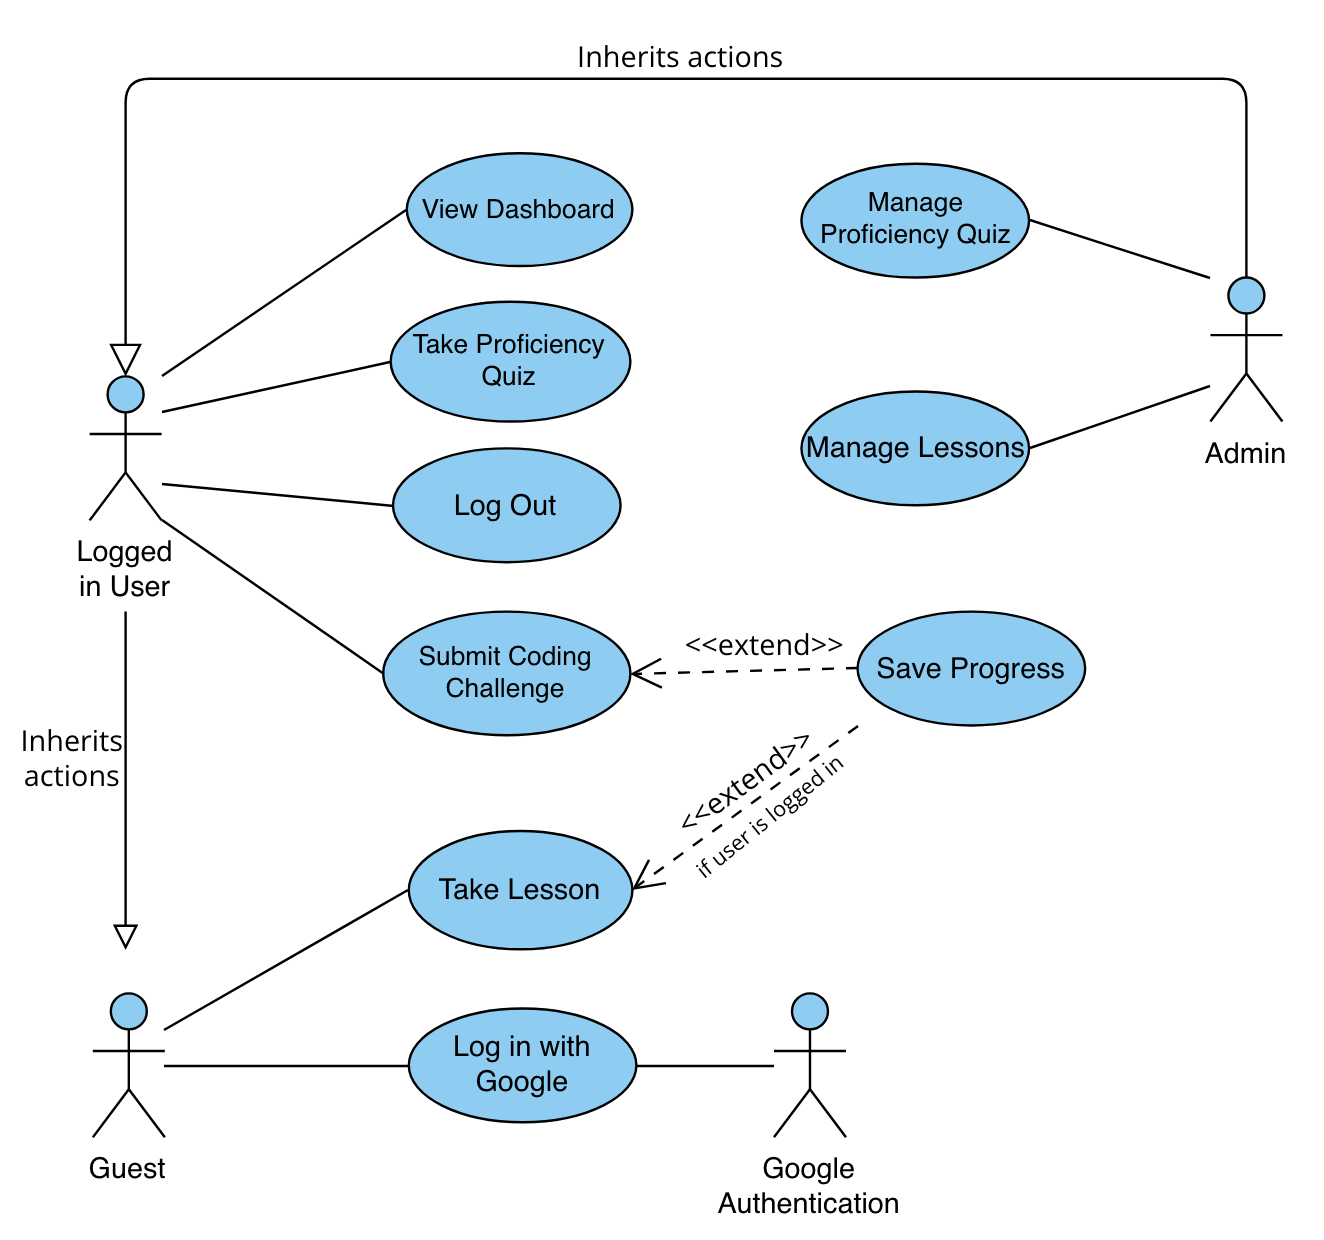
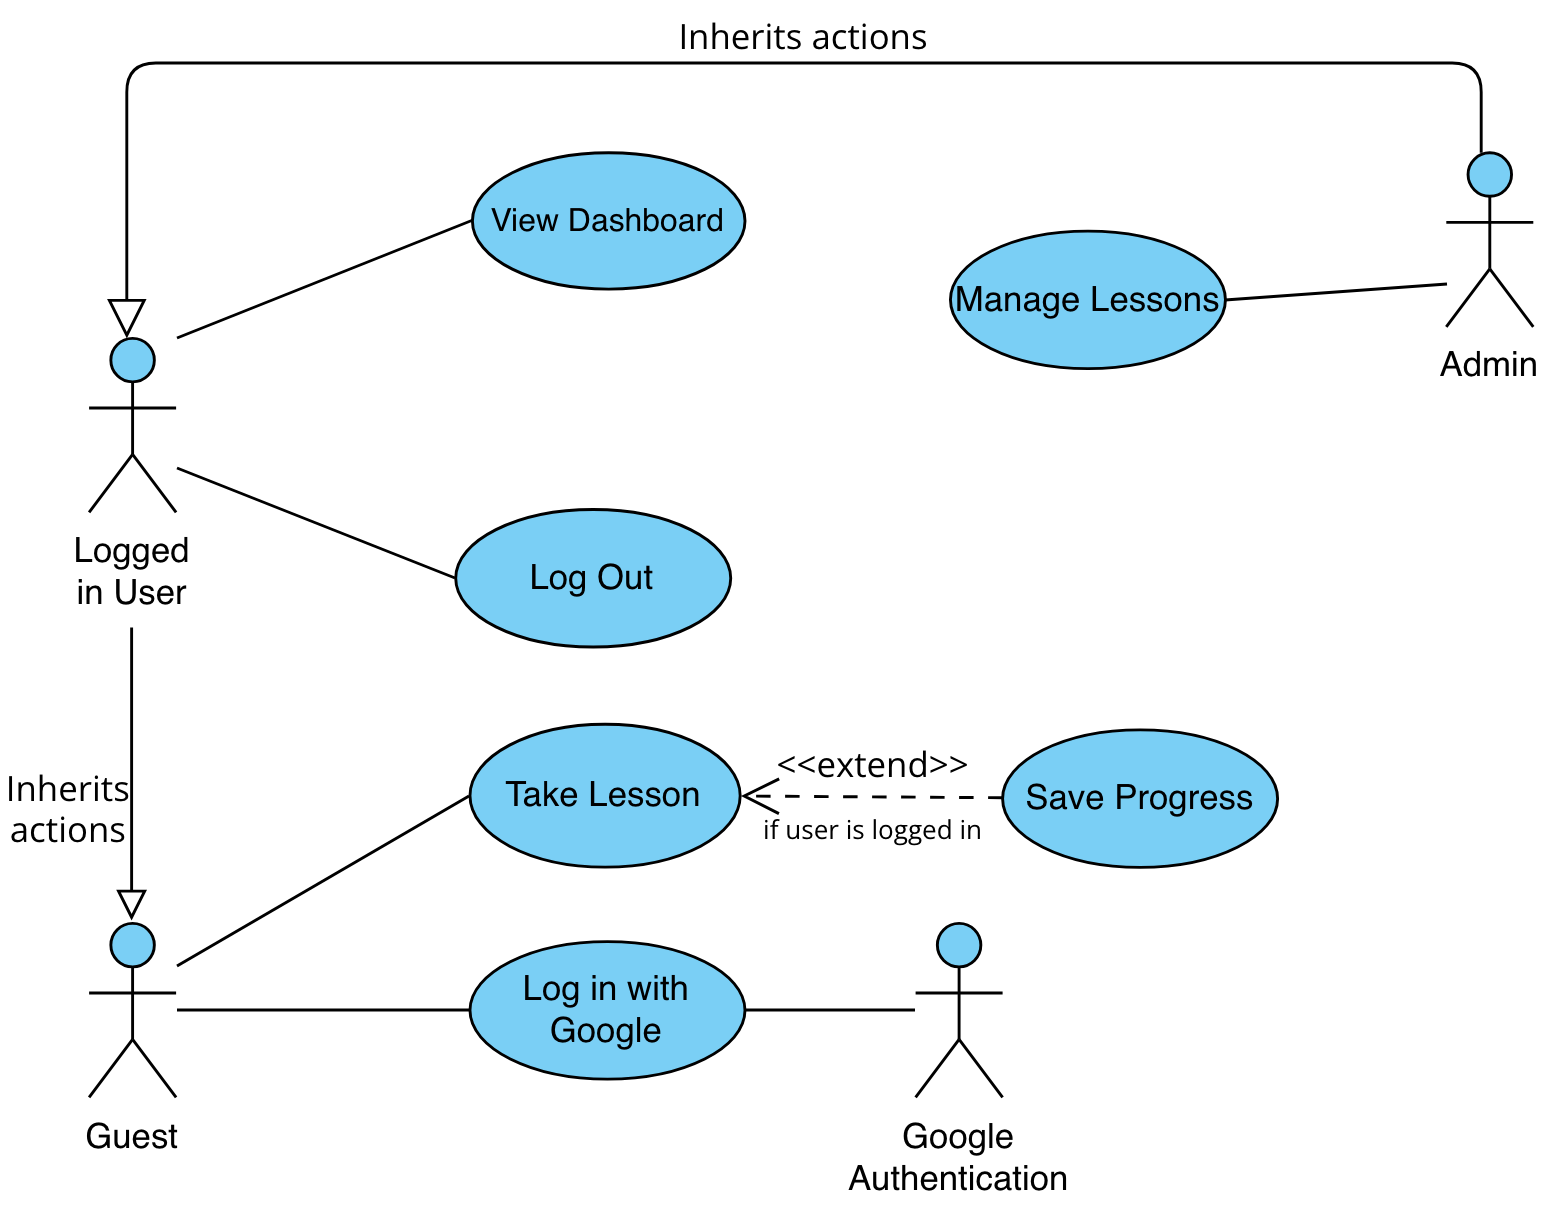
rough draft of software_requirements_specification.md and updated project scope on documentation

diff --git a/docs/proposal-template.md b/docs/proposal-template.md
@@ -5,64 +5,73 @@
 
 # Introduction
 
-Our Project is named "Syntax Sensei", it is a Python Programming language learning website. Users will follow lessons to learn Python starting basic and getting increasingly difficult. The lessons are created by ChatGPT but are verified to be accurate and helpful by us. The project will focus on gamefying the learning similar to Duolingo but for coding.
+Our Project is named "Syntax Sensei", it is a Python Programming language learning website. Users will follow lessons to learn Python starting basic and getting increasingly difficult. The lessons are created by AI but are verified to be accurate and helpful by our team. The project will focus on gamefying the learning similar to Duolingo but for coding.
 
 ### **Features:**
 # Overview
 
-This Software Requirements Specification (SRS) document defines the features, goals, and constraints for the "Syntax Sensei" project. Its purpose is to provide a clear, shared understanding for the development team of what the software will do and how it will perform.
+This document defines the features, goals, and constraints for the "Syntax Sensei" project. Its purpose is to provide a clear, shared understanding for the development team of what the software will do and how it will perform.
 
-# Functional Requirements
+# Software Requirments
+## Functional Requirements
 
-## 1. User Account Management
-1.  The system shall allow users to access and complete lessons without creating an account (guest mode).
-2.  The system shall not save any lesson progress for users in guest mode.
-3.  The system shall allow a user to register and log in using their existing Google account (Single Sign-On).
-4.  The system shall, upon first login, offer the user an optional proficiency quiz to place them in an appropriate "belt" section.
-5.  The system shall allow a logged-in user to log out.
-6.  The system shall save all lesson and belt progress only for users logged in with their Google account.
+### User Account Management
+| ID | Requirement |
+| :-------------: | :---------- |
+| FR1 | The system shall allow users to access and complete lessons without creating an account (guest mode). |
+| FR2 | The system shall not save any lesson progress for users in guest mode. |
+| FR3 | The system shall allow a user to register and log in using their existing Google account (Single Sign-On). |
+| FR4 | The system shall, upon successful login, save the user's current belt and total XP. |
+| FR5 | The system shall allow a logged-in user to log out of their account. |
 
-## 2. User Progression Dashboard ("Belt System")
-1.  The system shall provide a dedicated dashboard page, accessible only to logged-in users, which displays their current "belt" rank.
-2.  The system shall organize lessons into "belt" sections (e.g., "White Belt Section," "Yellow Belt Section").
-3.  The system shall display a list of all completed lessons for the logged-in user on their dashboard.
-4.  The system shall lock all lessons in a higher "belt" section until the user has passed the "Belt Promotion Challenge" for the prerequisite belt.
-5.  The system shall automatically promote a logged-in user to the next belt rank after they successfully pass the "Belt Promotion Challenge."
+### User Progression Dashboard
+| ID | Requirement |
+| :-------------: | :---------- |
+| FR6 | The system shall provide a dedicated dashboard page, which will be populated with user-specific data only for logged-in users. |
+| FR7 | The system shall display the user's current "belt" rank on the dashboard. |
+| FR8 | The system shall display the user's total earned XP (Experience Points) on the dashboard. |
+| FR9 | The system shall organize lessons into "belt" units (e.g., "White Belt," "Orange Belt") and display them on the dashboard. |
+| FR10 | The dashboard shall serve as the primary navigation hub, allowing users to select and start lessons from the displayed units. |
 
-## 3. Lesson Module
-1.  The system shall present lessons containing multiple-choice questions.
-2.  The system shall present lessons containing fill-in-the-blank questions.
-3.  The system shall present lessons containing error-checking questions, which require the user to identify an error's line and type from drop-down menus.
-4.  The system shall provide immediate feedback (e.g., "Correct" or "Incorrect") to the user after they submit an answer to a question.
-5.  The system shall store the completion status of each lesson only for users who are logged in.
-6.  The system shall lock all lessons within a belt section until the preceding lesson is completed.
+### Lesson Module
+| ID | Requirement |
+| :-------------: | :---------- |
+| FR11 | The system shall present a "Concept" pop-up or modal at the beginning of each lesson explaining the topic. |
+| FR12 | The system shall present lessons containing multiple-choice questions. |
+| FR13 | The system shall present lessons containing fill-in-the-blank questions. |
+| FR14 | The system shall provide immediate feedback (e.g., "Correct" or "Incorrect") to the user after they submit an answer. |
+| FR15 | The system shall, upon successful completion of an entire lesson, grant the user a predefined amount of XP. |
+| FR16 | The system shall display a progress bar within the lesson interface to show the user's progress toward completing the current lesson. |
 
-## 4. Belt Promotion Challenge (IDE)
-1.  The system shall present a text editor interface for the user to write Python code.
-2.  The system shall provide a "Run Code" button that executes the user's code against a predefined input.
-3.  The system shall display the output (`stdout`) generated by the user's code execution in a console window.
-4.  The system shall provide a "Submit Answer" button that validates the user's code output against one or more hidden test cases.
-5.  The system shall display a "Pass" message and unlock the next belt section upon a successful submission.
-6.  The system shall display a "Fail" message, indicating which test case failed, upon an unsuccessful submission.
 
-# Non-Functional Requirements
+## Non-Functional Requirements
 
-## 1. User Account Management
-1.  The system shall securely implement the Google OAuth 2.0 (Single Sign-On) protocol to authenticate users.
-2.  The login page and proficiency quiz shall load in under 2 seconds when run locally.
+### Performance & Usability
+| ID | Requirement |
+| :-------------: | :---------- |
+| NFR1 | The system shall provide feedback to user interactions (e.g., submitting an answer) in under 500 milliseconds. |
+| NFR2 | The user's dashboard and lesson pages shall load, on a standard internet connection, in under 3 seconds. |
+| NFR3 | The application shall be designed for and functional on desktop screen resolutions (minimum width 1280px). |
+| NFR4 | The application shall render correctly on the latest stable versions of Google Chrome and Firefox. |
+| NFR5 | The application shall maintain a consistent and intuitive user interface (UI) design across all pages. |
 
-## 2. User Progression Dashboard ("Belt System")
-1.  The application shall be designed for and functional on desktop screen resolutions with a minimum width of 1280 pixels.
-2.  The progression graphics (e.g., belt images) shall render correctly on the latest versions of Google Chrome and Firefox.
+### Security
+| ID | Requirement |
+| :-------------: | :---------- |
+| NFR6 | The system shall securely implement the Google OAuth 2.0 (Single Sign-On) protocol to authenticate users. |
+| NFR7 | The backend API shall use CORS (Cross-Origin Resource Sharing) to restrict access to only the deployed frontend application. |
+| NFR8 | The backend's Firebase Admin service account key shall not be stored in the public code repository. |
+| NFR9 | The frontend application shall store user authentication information in secure browser storage (e.g., `localStorage`). |
+| NFR10 | The backend API endpoints that modify user data shall be protected to only accept requests from authenticated sources. |
 
-## 3. Lesson Module
-1.  The lesson interface shall be navigable using only a keyboard (Tab to navigate, Enter to select).
-2.  The system shall provide feedback to user interactions (e.g., submitting an answer) in under 500 milliseconds.
-
-## 4. Belt Promotion Challenge (IDE)
-1.  The code editor interface shall provide Python syntax highlighting.
-2.  The code execution environment shall impose a 5-second timeout on user code execution to prevent infinite loops.
-3.  The code execution environment shall be sandboxed to prevent network access or local file system access.
+### Backend & Database
+| ID | Requirement |
+| :-------------: | :---------- |
+| NFR11 | The backend server shall be written in Node.js using the Express framework. |
+| NFR12 | The backend API endpoints shall return data in the JSON (JavaScript Object Notation) format. |
+| NFR13 | The system shall use Google Firestore as its NoSQL database for storing user and lesson data. |
+| NFR14 | The backend API shall be stateless (no user session data shall be stored on the server itself). |
+| NFR15 | All core lesson and challenge content shall be seeded into the database via a JavaScript script (`lesson_creation.js`) for maintainability. |
 
  
 # Anticipated Technologies/Tech Stack

diff --git a/docs/software_requirements_specification_final.md b/docs/software_requirements_specification_final.md
@@ -1,52 +1,76 @@
-# Requirments
+# Overview
+
+This document covers our project's software requirments specification (SRS). Overall this document outlines a picture of the project's requirments that make it a viable product and provides detailed documentation of the functionality of the project. The document specifically contains the project's requirments and the project's artifacts which visually represent different aspects of the project.
+
+# Software Requirments
+
+This portion of the doccument describes our requirments for the project covering both functional and non functional. The requirments gives a gauge at how the project should function, look, and perform. Our requirments are also organized in categories of User Account Management, User Progression Dashboard, Lesson Modules, Performance & Usability, Security, and Backend & Database. 
 
 ## Functional Requirements
 
-### 1. User Account Management
-1.  The system shall allow users to access and complete lessons without creating an account (guest mode).
-2.  The system shall not save any lesson progress for users in guest mode.
-3.  The system shall allow a user to register and log in using their existing Google account (Single Sign-On).
-4.  The system shall, upon successful login, save the user's current belt and total XP.
-5.  The system shall allow a logged-in user to log out of their account.
+### User Account Management
+| ID | Requirement |
+| :-------------: | :---------- |
+| FR1 | The system shall allow users to access and complete lessons without creating an account (guest mode). |
+| FR2 | The system shall not save any lesson progress for users in guest mode. |
+| FR3 | The system shall allow a user to register and log in using their existing Google account (Single Sign-On). |
+| FR4 | The system shall, upon successful login, save the user's current belt and total XP. |
+| FR5 | The system shall allow a logged-in user to log out of their account. |
 
-### 2. User Progression Dashboard
-1.  The system shall provide a dedicated dashboard page, which will be populated with user-specific data only for logged-in users.
-2.  The system shall display the user's current "belt" rank on the dashboard.
-3.  The system shall display the user's total earned XP (Experience Points) on the dashboard.
-4.  The system shall organize lessons into "belt" units (e.g., "White Belt," "Orange Belt") and display them on the dashboard.
-5.  The dashboard shall serve as the primary navigation hub, allowing users to select and start lessons from the displayed units.
+### User Progression Dashboard
+| ID | Requirement |
+| :-------------: | :---------- |
+| FR6 | The system shall provide a dedicated dashboard page, which will be populated with user-specific data only for logged-in users. |
+| FR7 | The system shall display the user's current "belt" rank on the dashboard. |
+| FR8 | The system shall display the user's total earned XP (Experience Points) on the dashboard. |
+| FR9 | The system shall organize lessons into "belt" units (e.g., "White Belt," "Orange Belt") and display them on the dashboard. |
+| FR10 | The dashboard shall serve as the primary navigation hub, allowing users to select and start lessons from the displayed units. |
 
-### 3. Lesson Module
-1.  The system shall present a "Concept" pop-up or modal at the beginning of each lesson explaining the topic.
-2.  The system shall present lessons containing multiple-choice questions.
-3.  The system shall present lessons containing fill-in-the-blank questions.
-4.  The system shall provide immediate feedback (e.g., "Correct" or "Incorrect") to the user after they submit an answer.
-5.  The system shall, upon successful completion of an entire lesson, grant the user a predefined amount of XP.
-6.  The system shall display a progress bar within the lesson interface to show the user's progress toward completing the current lesson.
+### Lesson Module
+| ID | Requirement |
+| :-------------: | :---------- |
+| FR11 | The system shall present a "Concept" pop-up or modal at the beginning of each lesson explaining the topic. |
+| FR12 | The system shall present lessons containing multiple-choice questions. |
+| FR13 | The system shall present lessons containing fill-in-the-blank questions. |
+| FR14 | The system shall provide immediate feedback (e.g., "Correct" or "Incorrect") to the user after they submit an answer. |
+| FR15 | The system shall, upon successful completion of an entire lesson, grant the user a predefined amount of XP. |
+| FR16 | The system shall display a progress bar within the lesson interface to show the user's progress toward completing the current lesson. |
 
----
 
 ## Non-Functional Requirements
 
-### 1. Performance & Usability
-1.  The system shall provide feedback to user interactions (e.g., submitting an answer) in under 500 milliseconds.
-2.  The user's dashboard and lesson pages shall load, on a standard internet connection, in under 3 seconds.
-3.  The application shall be designed for and functional on desktop screen resolutions (minimum width 1280px).
-4.  The application shall render correctly on the latest stable versions of Google Chrome and Firefox.
-5.  The application shall maintain a consistent and intuitive user interface (UI) design across all pages.
+### Performance & Usability
+| ID | Requirement |
+| :-------------: | :---------- |
+| NFR1 | The system shall provide feedback to user interactions (e.g., submitting an answer) in under 500 milliseconds. |
+| NFR2 | The user's dashboard and lesson pages shall load, on a standard internet connection, in under 3 seconds. |
+| NFR3 | The application shall be designed for and functional on desktop screen resolutions (minimum width 1280px). |
+| NFR4 | The application shall render correctly on the latest stable versions of Google Chrome and Firefox. |
+| NFR5 | The application shall maintain a consistent and intuitive user interface (UI) design across all pages. |
 
-### 2. Security
-1.  The system shall securely implement the Google OAuth 2.0 (Single Sign-On) protocol to authenticate users.
-2.  The backend API shall use CORS (Cross-Origin Resource Sharing) to restrict access to only the deployed frontend application.
-3.  The backend's Firebase Admin service account key shall not be stored in the public code repository.
-4.  The frontend application shall store user authentication information in secure browser storage (e.g., `localStorage`).
-5.  The backend API endpoints that modify user data shall be protected to only accept requests from authenticated sources.
+### Security
+| ID | Requirement |
+| :-------------: | :---------- |
+| NFR6 | The system shall securely implement the Google OAuth 2.0 (Single Sign-On) protocol to authenticate users. |
+| NFR7 | The backend API shall use CORS (Cross-Origin Resource Sharing) to restrict access to only the deployed frontend application. |
+| NFR8 | The backend's Firebase Admin service account key shall not be stored in the public code repository. |
+| NFR9 | The frontend application shall store user authentication information in secure browser storage (e.g., `localStorage`). |
+| NFR10 | The backend API endpoints that modify user data shall be protected to only accept requests from authenticated sources. |
 
-### 3. Backend & Database
-1.  The backend server shall be written in Node.js using the Express framework.
-2.  The backend API endpoints shall return data in the JSON (JavaScript Object Notation) format.
-3.  The system shall use Google Firestore as its NoSQL database for storing user and lesson data.
-4.  The backend API shall be stateless (no user session data shall be stored on the server itself).
-5.  All core lesson and challenge content shall be seeded into the database via a JavaScript script (`lesson_creation.js`) for maintainability.
+### Backend & Database
+| ID | Requirement |
+| :-------------: | :---------- |
+| NFR11 | The backend server shall be written in Node.js using the Express framework. |
+| NFR12 | The backend API endpoints shall return data in the JSON (JavaScript Object Notation) format. |
+| NFR13 | The system shall use Google Firestore as its NoSQL database for storing user and lesson data. |
+| NFR14 | The backend API shall be stateless (no user session data shall be stored on the server itself). |
+| NFR15 | All core lesson and challenge content shall be seeded into the database via a JavaScript script (`lesson_creation.js`) for maintainability. |
 
 # Artifacts
+
+This section documents the representations of the project's functionalities such as diagrams (artifacts). These artifacts were developed during the before development process and were followed for organized development.
+
+* [Use Case Diagram](../artifacts/use_case_diagram/use_case_diagram.png) (use_case_diagram.png)
+* [Sequence Diagram](../artifacts/sequence_chart/syntax_sensei_sequence_diagram.png) (syntax_sensei_sequence_diagram.png)
+* [Database Schema](../artifacts/database_schema/syntax_sensei_schema.png) (syntax_sensei_schema.png)
+* [old Diagrams](../artifacts/old_artifacts/) (old diagrams that are now irrelevant kept for documentation purposes)
